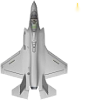
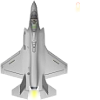
obsługa gestów, strzalanie tapnięciem

Changed region(s): [[0.27, 0.9, 0.39, 0.99], [0.75, 0.0, 0.81, 0.09]]

diff --git a/airstrike/src/pl/madsoft/airstrike/model/Player.java b/airstrike/src/pl/madsoft/airstrike/model/Player.java
@@ -1,5 +1,7 @@
 package pl.madsoft.airstrike.model;
 
+import pl.madsoft.airstrike.model.Player.State;
+
 import com.badlogic.gdx.math.Rectangle;
 import com.badlogic.gdx.math.Vector2;
 import com.badlogic.gdx.utils.Array;
@@ -7,7 +9,7 @@ import com.badlogic.gdx.utils.Array;
 public class Player {
 
 	public enum State {
-		INFLIGTH, EXPLODING
+		INFLIGTH, EXPLODING, FIRINGGUN
 	}
 
 	public static final float HEIGHT = 1.33f;
@@ -22,13 +24,6 @@ public class Player {
 	
 	Vector2   position = new Vector2();
     Vector2   velocity = new Vector2(0, START_V_SPEED);
-    
-    Array<Vector2> missiles = new Array<Vector2>();
-    
-    public Array<Vector2> getMissiles() {
-    	
-    	return missiles;
-    }
     
     public Vector2 getVelocity() {
 		return velocity;
@@ -75,9 +70,12 @@ public class Player {
 		position.set(newPosition);
 	}
 
-	public void addNewGunMissile() {
-		
-		missiles.add(new Vector2(position));
+	public void setState(State state) {
+		this.state = state;
+	}
+
+	public Object getState() {
+		return this.state;
 	}
 
 }

diff --git a/airstrike/src/pl/madsoft/airstrike/screens/GameScreen.java b/airstrike/src/pl/madsoft/airstrike/screens/GameScreen.java
@@ -15,6 +15,7 @@ import com.badlogic.gdx.graphics.g2d.tiled.TileMapRenderer;
 import com.badlogic.gdx.graphics.g2d.tiled.TiledLoader;
 import com.badlogic.gdx.graphics.g2d.tiled.TiledMap;
 import com.badlogic.gdx.math.Vector2;
+import com.badlogic.gdx.scenes.scene2d.actions.Actions;
 import com.badlogic.gdx.scenes.scene2d.ui.Image;
 
 public class GameScreen extends AbstractScreen {
@@ -63,7 +64,9 @@ public class GameScreen extends AbstractScreen {
 		
 		stage.addActor(cloudsImage);
 		stage.addActor(playerImage);
-		
+	
+        stage.getRoot().getColor().a = 0f;
+        stage.getRoot().addAction(Actions.fadeIn(0.5f));		
 	}
 
 	private void moveCamera() {
@@ -78,6 +81,6 @@ public class GameScreen extends AbstractScreen {
 		}
 		
 		stage.getCamera().translate(cx, cy, 0);
-	}	
+	}
 	
 }

diff --git a/airstrike-android/src/pl/madsoft/airstrike/MainActivity.java b/airstrike-android/src/pl/madsoft/airstrike/MainActivity.java
@@ -11,13 +11,12 @@ public class MainActivity extends AndroidApplication {
     public void onCreate(Bundle savedInstanceState) {
         super.onCreate(savedInstanceState);
         
-        AndroidApplicationConfiguration cfg = new AndroidApplicationConfiguration();
+        AndroidApplicationConfiguration cfg = new AndroidApplicationConfiguration( );
 
         cfg.useAccelerometer = true;
         cfg.useCompass = false;
         cfg.useWakelock = true;
         cfg.useGL20 = true;
-
         
         initialize(new AirStrikeGame(), cfg);
     }

diff --git a/airstrike/src/pl/madsoft/airstrike/screens/SplashScreen.java b/airstrike/src/pl/madsoft/airstrike/screens/SplashScreen.java
@@ -4,6 +4,7 @@ import static com.badlogic.gdx.scenes.scene2d.actions.Actions.delay;
 import static com.badlogic.gdx.scenes.scene2d.actions.Actions.fadeIn;
 import static com.badlogic.gdx.scenes.scene2d.actions.Actions.fadeOut;
 import static com.badlogic.gdx.scenes.scene2d.actions.Actions.sequence;
+import pl.madsoft.airstrike.AirStrikeGame;
 
 import com.badlogic.gdx.Game;
 import com.badlogic.gdx.Gdx;
@@ -59,7 +60,5 @@ public class SplashScreen extends AbstractScreen {
 		super.dispose();
 		splashTexture.dispose();
 	}
-	
-	
 
 }

diff --git a/airstrike/src/pl/madsoft/airstrike/screens/AbstractScreen.java b/airstrike/src/pl/madsoft/airstrike/screens/AbstractScreen.java
@@ -82,4 +82,5 @@ public abstract class AbstractScreen implements Screen {
 		spriteBatch.dispose();
 	}
 
+	
 }
